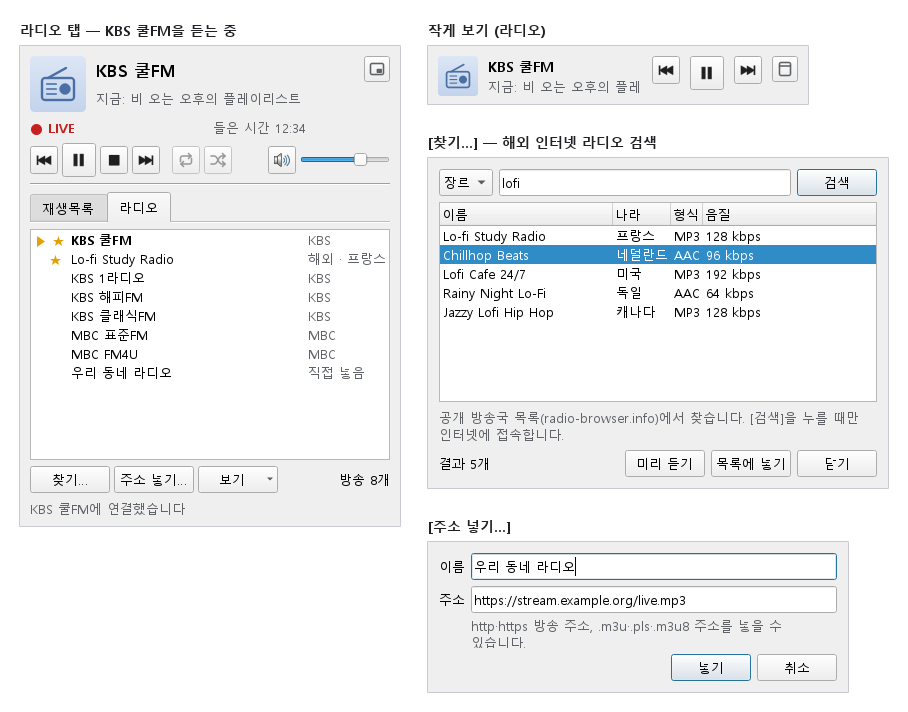
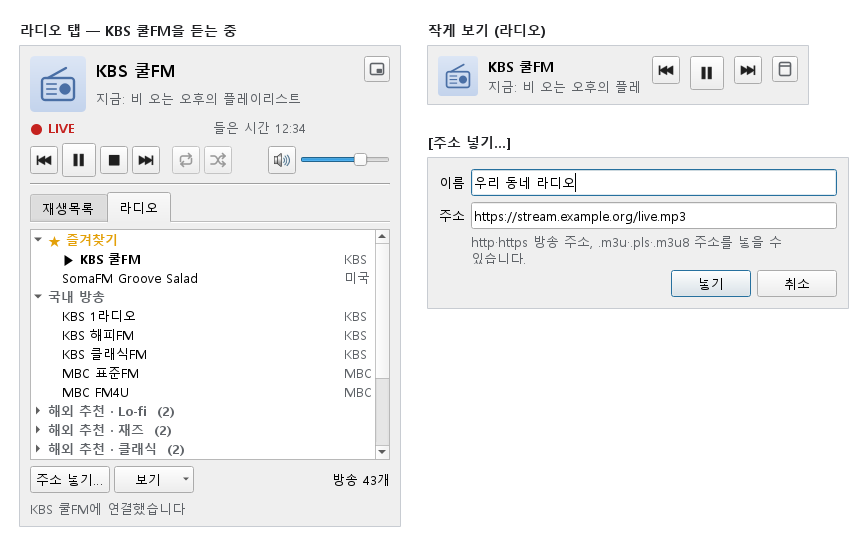
Revise stage 3 design from user feedback
A station starts only when its row is clicked (the tab never starts
playback), overseas radio comes as built-in genre picks (at most two per
genre) instead of a search window, and failures show a gentle gray hint.
Schedules, station icons and timed start go to a post-stabilization list.

diff --git a/docs/stage3_design.md b/docs/stage3_design.md
@@ -1,6 +1,6 @@
 # 3단계 설계: 인터넷 라디오
 
-> 시안: `docs/images/stage3_mockup.png` · 로드맵: `docs/개발로드맵.md` §3 R-1, B-1(URL)
+> 시안: `docs/images/stage3_mockup.png` (사용자 의견 반영 2026-10-26) · 로드맵: `docs/개발로드맵.md` §3 R-1, B-1(URL)
 
 ## 1. 범위
 
@@ -8,12 +8,14 @@
 - **B-1 URL 열기:** 방송 주소를 직접 넣어 듣기.
 - **방송은 세 가지다.**
   - 국내 방송사: KBS 1라디오, KBS 해피FM, KBS 쿨FM, KBS 클래식FM, MBC 표준FM, MBC FM4U.
-  - 해외 인터넷 라디오: [찾기…] 창에서 공개 방송국 목록(radio-browser.info)을 검색해 넣는다.
+  - 해외 인터넷 라디오: 장르별 추천 방송을 처음부터 목록에 넣어 둔다. 장르는 최대한 다양하게 하고, 장르마다 2개 이하다(사용자 의견 2026-10-26).
   - 직접 넣은 주소.
+- **듣기 시작은 방송국 줄을 한 번 누르는 것이다.** 탭을 누르거나 앱을 켜는 것만으로는 소리도 접속도 시작하지 않는다(잘못 누름 방지, 사용자 의견).
 - **완료 기준 (로드맵):** 고른 방송국이 30분 이상 끊김 없이 나온다.
 - **넣지 않는 것:**
-  - 녹음, 예약 듣기, 편성표.
-  - 방송국 로고 내려받기.
+  - 해외 방송 검색 창, 장르를 골라 보는 설정 — 쓰면서 필요하면 "체크한 장르만 보이기" 설정으로 더한다.
+  - 녹음.
+  - 안정화 뒤 할 일로 미룸(로드맵에 적는다): 방송사 편성표, 방송국 아이콘, 정해진 시간에 라디오 켜기.
   - SBS: 주소는 받아지지만 방송사 서버가 재생을 막는다(시험 2026-10-26, 403). 접근 제한은 우회하지 않는다.
 - **미리 시험한 것 (2026-10-26, 이 PC):**
   - KBS 1라디오·쿨FM·클래식FM과 MBC 표준FM·FM4U는 방송사 웹 재생 주소를 받아 PyAV로 바로 풀렸다. 모두 HLS AAC이다.
@@ -26,12 +28,13 @@
   - 목록 위에 [재생목록] [라디오] 탭을 둔다.
   - 탭을 바꿔도 지금 나오는 소리는 그대로다. 보이는 목록만 바뀐다.
   - 마지막에 본 탭을 기억한다.
-- **라디오 탭의 목록:**
-  - 한 줄에 ★(즐겨찾기), 방송국 이름, 회색 출처(`KBS`, `MBC`, `해외 · 나라`, `직접 넣음`)가 보인다.
+- **라디오 탭의 목록:** 접고 펼 수 있는 묶음이다.
+  - 순서: "★ 즐겨찾기" → "국내 방송" → "해외 추천 · 장르 (2)" 묶음들 → "직접 넣은 방송".
+  - 즐겨찾기·국내 방송·직접 넣은 방송은 펼쳐져 있고, 해외 장르 묶음은 처음에 접혀 있다. 펼침 상태는 기억한다.
+  - 한 줄에 방송국 이름과 회색 출처(`KBS`, `MBC`, 나라 이름, `직접 넣음`)가 보인다.
   - 지금 방송국 줄에는 ▶와 굵은 글씨가 붙는다.
-  - ★ 방송국은 맨 위에 모인다.
-  - 두 번 누르거나 `Enter`를 누르면 듣는다.
-- **아래 줄 (라디오 탭):** [찾기…] [주소 넣기…] [보기 ▾], 그리고 "방송 N개"가 보인다. 재생목록 탭의 [열기] [추가] [목록]은 숨긴다.
+  - **방송국 줄을 한 번 누르면 듣는다.** `Enter`도 같다. 묶음 줄을 누르면 접고 펴기만 한다.
+- **아래 줄 (라디오 탭):** [주소 넣기…] [보기 ▾], 그리고 "방송 N개"가 보인다. 재생목록 탭의 [열기] [추가] [목록]은 숨긴다.
 - **라디오를 들을 때의 머리 줄:**
   - 큰 제목은 방송국 이름이다.
   - 그 아래 회색 줄은 "지금: 곡 이름"이다. 방송이 곡 이름을 보내 줄 때만 보이고, 아니면 비운다.
@@ -43,12 +46,6 @@
 - **작게 보기:** 2-B와 같다. 라디오일 때는 탐색바 자리를 숨긴다.
 - **오른쪽 클릭 (방송국 줄):** 듣기 · 즐겨찾기 ★ · 이름 바꾸기… · 지우기, 그리고 구분선 아래에 "기본 방송 다시 보이기"가 있다.
   - 기본 방송을 지우면 숨기기만 한다. "기본 방송 다시 보이기"로 되살린다.
-- **[찾기…] 창:**
-  - 검색 기준(장르 / 이름 / 나라), 검색어, [검색] 단추가 있다.
-  - 결과 표는 이름, 나라, 형식, 음질이다.
-  - 아래에 [미리 듣기] [목록에 넣기] [닫기]가 있다.
-  - "공개 방송국 목록(radio-browser.info)에서 찾습니다. [검색]을 누를 때만 인터넷에 접속합니다."라는 안내를 둔다.
-  - 창은 하나만 뜨고 모달이 아니다.
 - **[주소 넣기…] 창:**
   - 이름과 주소 칸이 있다.
   - "http·https 방송 주소, .m3u·.pls·.m3u8 주소를 넣을 수 있습니다." 안내를 둔다.
@@ -58,10 +55,10 @@
   - "KBS 쿨FM에 연결했습니다"
   - "다시 연결하는 중… (2/3)"
   - "이어 듣기: KBS 쿨FM"
-- **상태 줄 문구 (빨간 오류):**
-  - "방송에 연결할 수 없습니다"
-  - "검색할 수 없습니다. 인터넷 연결을 확인해 주세요"
-  - "주소가 올바르지 않습니다"
+- **안 될 때 문구 (회색 안내, 빨간 오류로 겁주지 않는다 — 사용자 의견):**
+  - 연결 실패: "지금은 이 방송을 들을 수 없습니다. 다른 방송을 골라 보세요"
+  - 이 문구는 사용자가 방송을 누른 뒤에만 나온다. 켤 때·탭을 바꿀 때는 접속하지 않으므로 어떤 오류도 나오지 않는다.
+- **[주소 넣기…] 창 안의 오류(창 안 빨간 글씨):** "주소가 올바르지 않습니다"
 
 ## 3. 단축키
 
@@ -74,12 +71,18 @@
 
 ### 4.1 방송국 목록
 
-- **기본 방송** 6개는 코드 안에 있다. 각각 이름, 출처, "주소 받는 방법"과 채널 값을 가진다.
-  - KBS 1라디오(21), 해피FM(22), 클래식FM(24), 쿨FM(25)
-  - MBC 표준FM(`sfm`), FM4U(`mfm`)
+- **기본 방송**은 코드 안에 있다. 각각 이름, 출처, "주소 받는 방법"과 채널 값을 가진다.
+  - 국내 6개: KBS 1라디오(21), 해피FM(22), 클래식FM(24), 쿨FM(25), MBC 표준FM(`sfm`), FM4U(`mfm`)
+  - 해외 추천: 장르마다 2개 이하, 장르는 최대한 다양하게(예: Lo-fi, 재즈, 클래식, 팝, 록, 일렉트로닉, 앰비언트, 라운지·칠아웃, 피아노, 영화음악, 라틴, 레게, 블루스, 컨트리, 힙합, K-pop, 80년대, 보사노바).
+- **해외 추천 고르는 규칙 (구현 때 한 번, 그 뒤 필요할 때):**
+  - radio-browser.info의 장르별 인기 순 방송에서 고른다. 실제로 3초 이상 소리가 풀리는 것만 넣는다.
+  - 이름이 장르와 맞고, 주소에 사용 기한 같은 일회성 값이 없고, MP3·AAC 64 kbps 이상인 것만 넣는다.
+  - 맞는 방송이 1개뿐인 장르는 1개만 둔다. 0개면 그 장르를 뺀다.
+  - 목록은 코드 안의 고정 목록이다. 앱이 radio-browser에 접속하지 않는다. 확인 스크립트(`tools/check_stations.py`)로 언제든 다시 확인한다.
+  - 2026-10-26 시험에서 18개 장르 모두 2개씩 소리가 나는 방송이 있었다(장르와 안 맞는 것은 구현 때 바꾼다).
 - **사용자 목록:** `%APPDATA%\my-fun\stations.json`에 저장한다(UTF-8 JSON). 담는 것은 넣은 방송, 즐겨찾기, 이름 바꾼 것, 숨긴 기본 방송, 순서이다.
   - 파일이 없거나 깨졌으면 기본 방송만으로 시작한다. 깨진 파일은 `stations.json.bak`으로 옮겨 둔다.
-- **순서:** ★ 방송이 맨 위이고, 그 안과 나머지는 사용자가 끌어 놓은 순서다. 처음에는 기본 방송, 그다음 넣은 순서다.
+- **순서:** ★ 방송은 "즐겨찾기" 묶음에 모인다(원래 묶음에서는 빠진다). 각 묶음 안은 사용자가 끌어 놓은 순서다. 묶음 사이로는 끌 수 없다.
 - **같은 주소를 다시 넣으면** 새 줄을 만들지 않고 그 줄을 고른다. 안내는 "이미 목록에 있습니다"이다.
 
 ### 4.2 주소 받기와 연결
@@ -87,8 +90,8 @@
 - **주소 받는 방법** (방송사별로 바꿔 끼울 수 있게 따로 둔다):
   - KBS: `https://cfpwwwapi.kbs.co.kr/api/v1/landing/live/channel_code/{코드}` JSON의 `channel_item[].service_url`.
   - MBC: `https://sminiplay.imbc.com/aacplay.ashx?agent=webapp&channel={채널}` 응답 글자(Referer `https://mini.imbc.com/`).
-  - 직접 넣은 주소와 해외 방송: 주소 그대로 쓴다. `.m3u`/`.pls`면 파일을 받아 첫 http(s) 주소를 쓴다. `.m3u8`(HLS)은 그대로 PyAV에 넘긴다.
-- **언제 접속하나:** 방송국을 들을 때(두 번 클릭, `Enter`, [재생], 다음/이전, 미리 듣기)와 [검색]을 누를 때만 접속한다. 켤 때는 접속하지 않는다.
+  - 직접 넣은 주소와 해외 추천 방송: 주소 그대로 쓴다. `.m3u`/`.pls`면 파일을 받아 첫 http(s) 주소를 쓴다. `.m3u8`(HLS)은 그대로 PyAV에 넘긴다.
+- **언제 접속하나:** 방송국을 들을 때(방송국 줄 클릭, `Enter`, 라디오를 멈춘 뒤 [재생], 라디오 중 다음/이전)만 접속한다. 켤 때와 탭을 바꿀 때는 접속하지 않는다.
 - **뒤에서 한다:** 주소 받기와 연결은 작업 스레드에서 한다. 그동안 "연결 중…"을 보이고 화면은 멈추지 않는다.
   - 기다리는 동안 다른 방송국을 고르면 앞의 시도는 버린다. 늦게 끝나도 무시한다.
 - **시간 제한:** 주소 받기는 10초, 연결은 15초다.
@@ -104,7 +107,7 @@
   - 모아 둔 소리가 남아 있는 동안 뒤에서 다시 연결한다. 2초, 4초, 8초 간격으로 3번까지 한다.
   - 국내 방송은 매번 주소를 새로 받는다. 주소 안의 사용 기한이 지났을 수 있기 때문이다.
   - 다시 이어지면 안내 없이 계속 나온다. "들은 시간"도 이어진다.
-- **3번 모두 실패하면** 멈춤 상태가 되고 빨간 "방송에 연결할 수 없습니다"를 보인다. 저절로 다음 방송으로 넘어가지 않는다.
+- **처음 연결이 안 되거나 3번 모두 실패하면** 멈춤 상태가 되고 회색 "지금은 이 방송을 들을 수 없습니다. 다른 방송을 골라 보세요"를 보인다. 저절로 다음 방송으로 넘어가지 않는다.
 - **완료 기준:** 30분 동안 끊김 없이 나온다. 다시 연결 때문에 소리가 잠깐 비는 것도 끊김으로 본다.
 
 ### 4.4 재생 규칙
@@ -129,20 +132,7 @@
 - **[곡 정보] (`Ctrl+I`, 그림 클릭):** 라디오일 때는 방송국 이름, 출처, 형식·음질(연결된 뒤), 주소를 보인다.
   - 국내 방송의 주소 칸은 "방송사 웹 재생 주소 (들을 때마다 새로 받음)"이다. 매번 바뀌는 주소라서 그대로 보여주지 않는다.
 
-### 4.5 [찾기…] (radio-browser)
-
-- **검색:**
-  - `https://{서버}/json/stations/search` 에 `tag`, `name`, `countrycode` 중 하나와 `limit=50&hidebroken=true&order=votes&reverse=true`를 붙인다.
-  - 서버는 `de1`, `de2`, `fi1`(`.api.radio-browser.info`)을 차례로 시도한다.
-- **결과 표:** 이름, 나라(한국어 나라 이름이 있으면 한국어), 형식(`codec`), 음질(`bitrate` kbps, 0이면 —)이다.
-- **[미리 듣기]:**
-  - 목록에 넣지 않고 그 방송을 듣는다.
-  - 머리 줄에는 방송 이름과 "(미리 듣기)"가 붙는다.
-  - 창을 닫아도 계속 나온다. 다른 방송국을 고르면 끝난다.
-- **[목록에 넣기]:** 사용자 목록 끝에 넣고 출처를 "해외 · 나라"로 둔다. 같은 주소면 §4.1 규칙을 따른다.
-- **보내지 않는 것:** radio-browser의 "클릭 수 세기" 기능은 쓰지 않는다. 검색 말고는 아무것도 보내지 않는다.
-
-### 4.6 [주소 넣기…]
+### 4.5 [주소 넣기…]
 
 - `http://` 또는 `https://`로 시작해야 한다. 아니면 "주소가 올바르지 않습니다"를 보이고 창은 닫히지 않는다.
 - [넣기]를 누르면 목록에 넣고 바로 듣는다. 듣기에 실패해도 목록에는 남는다. 주소가 잠깐 안 될 수도 있기 때문이다.
@@ -156,13 +146,12 @@ funplayer/
 │  └─ settings.py   last_source ("file"|"radio"), last_station (id), tab ("playlist"|"radio")
 ├─ engine/
 │  ├─ resolve.py    resolve(station, fetch) -> str: 방송사별 주소 받기, .m3u/.pls 풀기 (새 파일, fetch는 넘겨받음)
-│  ├─ radio_search.py  search(by, text, fetch) -> list[SearchResult] (새 파일)
 │  └─ player.py     load(url, live=True): 8초 모으기, 끊김 알림, duration 0, 탐색 없음
 ├─ radio.py         RadioController: 연결·다시 연결 상태, 들은 시간, "지금:" 곡 이름 (Qt 없음, 작업 실행기는 넘겨받음)
 ├─ controller.py    곡 ↔ 라디오 오가기, 이전/다음/재생의 대상, 이어 듣기 저장·복원에 라디오 더하기
 └─ ui/
-   ├─ station_view.py  방송국 목록 위젯 (★, 출처, 끌어 옮기기, 오른쪽 클릭)
-   ├─ radio_dialogs.py  FindDialog, AddUrlDialog (새 파일)
+   ├─ station_view.py  방송국 목록 위젯 (묶음 접기·펴기, 한 번 클릭 = 듣기, ★, 출처, 묶음 안 끌어 옮기기, 오른쪽 클릭)
+   ├─ radio_dialogs.py  AddUrlDialog (새 파일)
    ├─ worker.py      작업 스레드 실행기 (QThreadPool) — 결과는 UI 스레드로 돌려준다
    ├─ icons.py       radio_art(size)
    └─ player_panel.py  탭, 라디오 탭 아래 줄, LIVE 줄, 상태 문구
@@ -187,7 +176,7 @@ funplayer/
 - **resolve (가짜 fetch):**
   - KBS JSON, MBC 글자, `.m3u`, `.pls`, `.m3u8` 그대로, 잘못된 응답.
   - 시간 초과는 오류로 처리한다.
-- **radio_search (가짜 fetch):** 결과 바꾸기, 서버 하나 실패 → 다음 서버, 모두 실패 → 오류, bitrate 0 → —.
+- **해외 추천 목록:** 장르마다 2개 이하, 주소 중복 없음, http(s) 주소. 실제 소리 확인은 `tools/check_stations.py`(인터넷 필요, 자동 테스트 아님).
 - **player 라이브 모드:**
   - 테스트 안에서 띄운 `localhost` HTTP 서버가 MP3를 천천히 흘려 보내는 방식으로 시험한다.
   - duration 0, 탐색 불가, 끊으면 `stream_lost`.
@@ -200,19 +189,23 @@ funplayer/
   - 라디오 중 이전/다음은 방송국을 옮긴다.
   - 이어 듣기: 라디오로 끄고 켜면 방송국이 골라지고 접속은 없다.
 - **panel (offscreen):**
-  - 탭 바꾸기, 아래 줄 단추, LIVE 줄, 반복·무작위 흐림, 오른쪽 클릭 메뉴.
-  - [찾기]·[주소 넣기] 창의 칸과 오류 문구.
+  - 탭을 바꿔도 플레이어·네트워크를 부르지 않는다(가짜 fetch 호출 0번).
+  - 방송국 줄 한 번 클릭 = 듣기, 묶음 줄 클릭 = 접고 펴기만.
+  - 아래 줄 단추, LIVE 줄, 반복·무작위 흐림, 오른쪽 클릭 메뉴, 실패 문구가 회색인지.
+  - [주소 넣기] 창의 칸과 오류 문구.
   - 작게 보기에서 탐색바를 숨기는지.
 - **실제 방송 확인 (자동 테스트 아님):** 구현 뒤 실제 캡처 때 KBS·MBC·해외 한 곳씩 10초 듣기 스크립트를 따로 돌린다.
 
 ## 7. 완료 기준 (사용자 체크리스트)
 
-- [ ] [라디오] 탭에서 KBS·MBC 방송국을 골라 들을 수 있고, "● LIVE"와 들은 시간이 보인다
+- [ ] [라디오] 탭을 눌러도 아무것도 켜지지 않고, 방송국 줄을 한 번 누르면 들린다
+- [ ] KBS·MBC 방송을 들을 수 있고, "● LIVE"와 들은 시간이 보인다
 - [ ] 고른 방송이 30분 이상 끊김 없이 나온다
-- [ ] [찾기…]에서 장르(예: lofi, jazz)로 해외 방송을 찾아 미리 듣고, 목록에 넣을 수 있다
+- [ ] 해외 추천 장르를 펼쳐 여러 장르의 방송을 들을 수 있다 (장르마다 2개 이하)
+- [ ] 안 되는 방송을 누르면 회색으로 "다른 방송을 골라 보세요" 안내가 나온다
 - [ ] [주소 넣기…]로 방송 주소를 넣어 들을 수 있고, 잘못된 주소는 안내가 나온다
 - [ ] 멈췄다가 다시 누르면 지금 나오는 방송으로 이어진다
-- [ ] 와이파이를 잠깐 껐다 켜면(또는 선을 뽑았다 꽂으면) 다시 연결되고, 오래 끊기면 빨간 안내가 나온다
+- [ ] 와이파이를 잠깐 껐다 켜면(또는 선을 뽑았다 꽂으면) 다시 연결되고, 오래 끊기면 회색 안내가 나온다
 - [ ] ★ 즐겨찾기, 이름 바꾸기, 지우기(기본 방송은 숨기기), 끌어서 순서 바꾸기가 되고 껐다 켜도 남아 있다
 - [ ] 라디오를 듣다가 끄고 켜면 그 방송국이 골라진 채 멈춰 있고, [재생]을 누르면 나온다
 - [ ] 곡을 듣다가 라디오로 갔다가 돌아와 [재생]하면 듣던 곡 위치에서 이어진다
@@ -221,13 +214,17 @@ funplayer/
 ## 8. 정한 것 (결정 기록)
 
 - 국내 방송사, 해외 인터넷 라디오, 직접 넣은 주소를 모두 듣는다(사용자 선택).
-- 방송국 목록은 목록 위 탭에 둔다(사용자 선택). 해외 방송은 [찾기…] 창에서 검색한다(사용자 선택).
+- 방송국 목록은 목록 위 탭에 둔다(사용자 선택). 탭은 목록만 바꾸고, 방송국 줄을 한 번 눌러야 듣기 시작이다(사용자 의견, 잘못 누름 방지).
+- 해외 방송은 검색 창 대신 장르별 추천(장르마다 2개 이하, 장르는 다양하게)을 처음부터 넣어 둔다(사용자 의견). 장르 고르기 설정은 쓰면서 필요하면 더한다.
+- 안 될 때는 빨간 오류 대신 회색 "다른 방송을 골라 보세요" 안내다. 누르기 전에는 접속하지 않아서 오류가 먼저 보이지 않는다(사용자 의견).
+- 편성표, 방송국 아이콘, 정해진 시간에 켜기는 안정화 뒤 할 일로 미룬다(사용자 의견).
+- SBS는 방송사가 외부 재생을 막아 둔 것이라, 앱 분석 등으로 우회하지 않는다.
 - 국내 기본 방송은 KBS 4개, MBC 2개다. SBS는 서버가 재생을 막아 뺀다. 접근 제한은 우회하지 않는다.
 - 방송사별 "주소 받기"를 따로 둬서 바뀌면 그 부분만 고친다.
 - 재생 엔진은 지금 것을 넓혀 쓴다. 새 라이브러리를 넣지 않는다(PyAV + `urllib`).
 - 라디오의 멈춤은 연결 끊기이고, 다시 누르면 지금 방송으로 새로 연결한다.
 - 라디오는 8초 모아 두고, 끊기면 3번(2·4·8초) 다시 연결한다. 국내 방송은 주소를 새로 받는다.
-- 켤 때와 탭을 바꿀 때는 인터넷에 접속하지 않는다. 듣기와 검색을 누를 때만 접속하고, 검색 외에는 아무것도 보내지 않는다.
+- 켤 때와 탭을 바꿀 때는 인터넷에 접속하지 않는다. 방송을 들을 때만 접속하고, 방송을 받는 것 말고는 아무것도 보내지 않는다.
 - 곡 ↔ 라디오를 오가면 곡 위치를 기억해 이어 듣는다.
 - 이전/다음과 재생은 보고 있는 탭이 아니라 지금 나오는 쪽을 따른다.
 - "지금:" 곡 이름은 받을 수 있을 때만 보인다(완료 기준 아님).

diff --git a/docs/개발로드맵.md b/docs/개발로드맵.md
@@ -127,6 +127,11 @@ my-fun/
 
 각 단계의 자세한 범위는 그 단계를 시작할 때 `docs/stageN_design.md`에 적는다. 라디오 방송국은 3단계를 시작할 때 고른다.
 
+**안정화 뒤 할 일 (사용자 아이디어, 버리지 않고 모아 둠):**
+
+- 라디오: 방송사 편성표 보기, 방송국 아이콘, 정해진 시간에 라디오 켜기 (3단계 때 미룸, 2026-10-26)
+- 라디오: "체크한 장르만 보이기" 설정 (해외 추천이 많아 불편하면)
+
 ## 7. 주요 위험과 대응
 
 | 위험 | 대응 |
